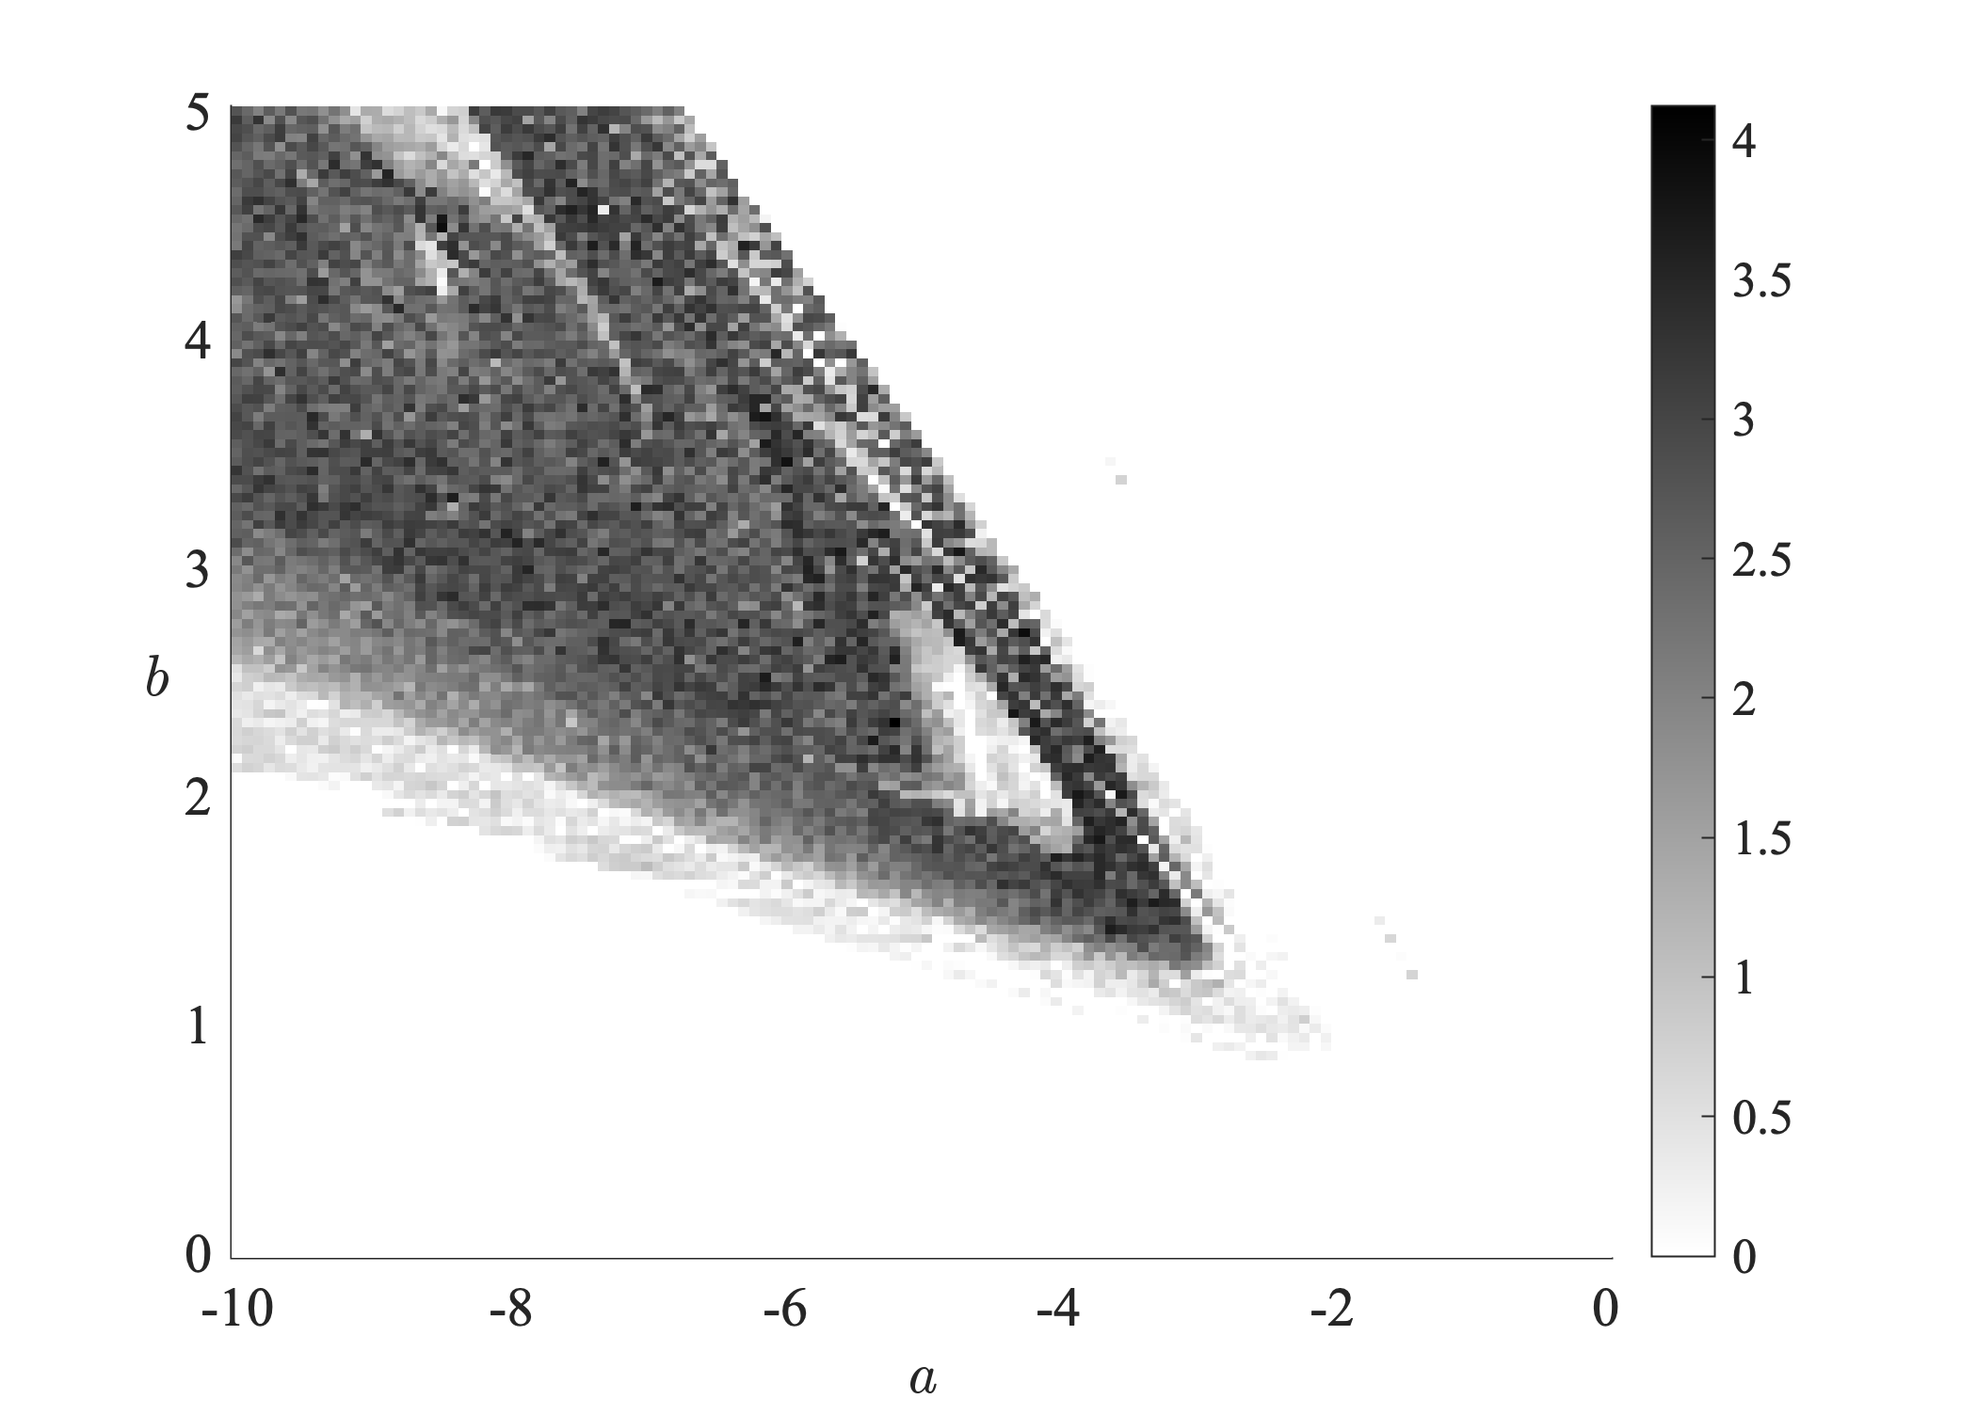
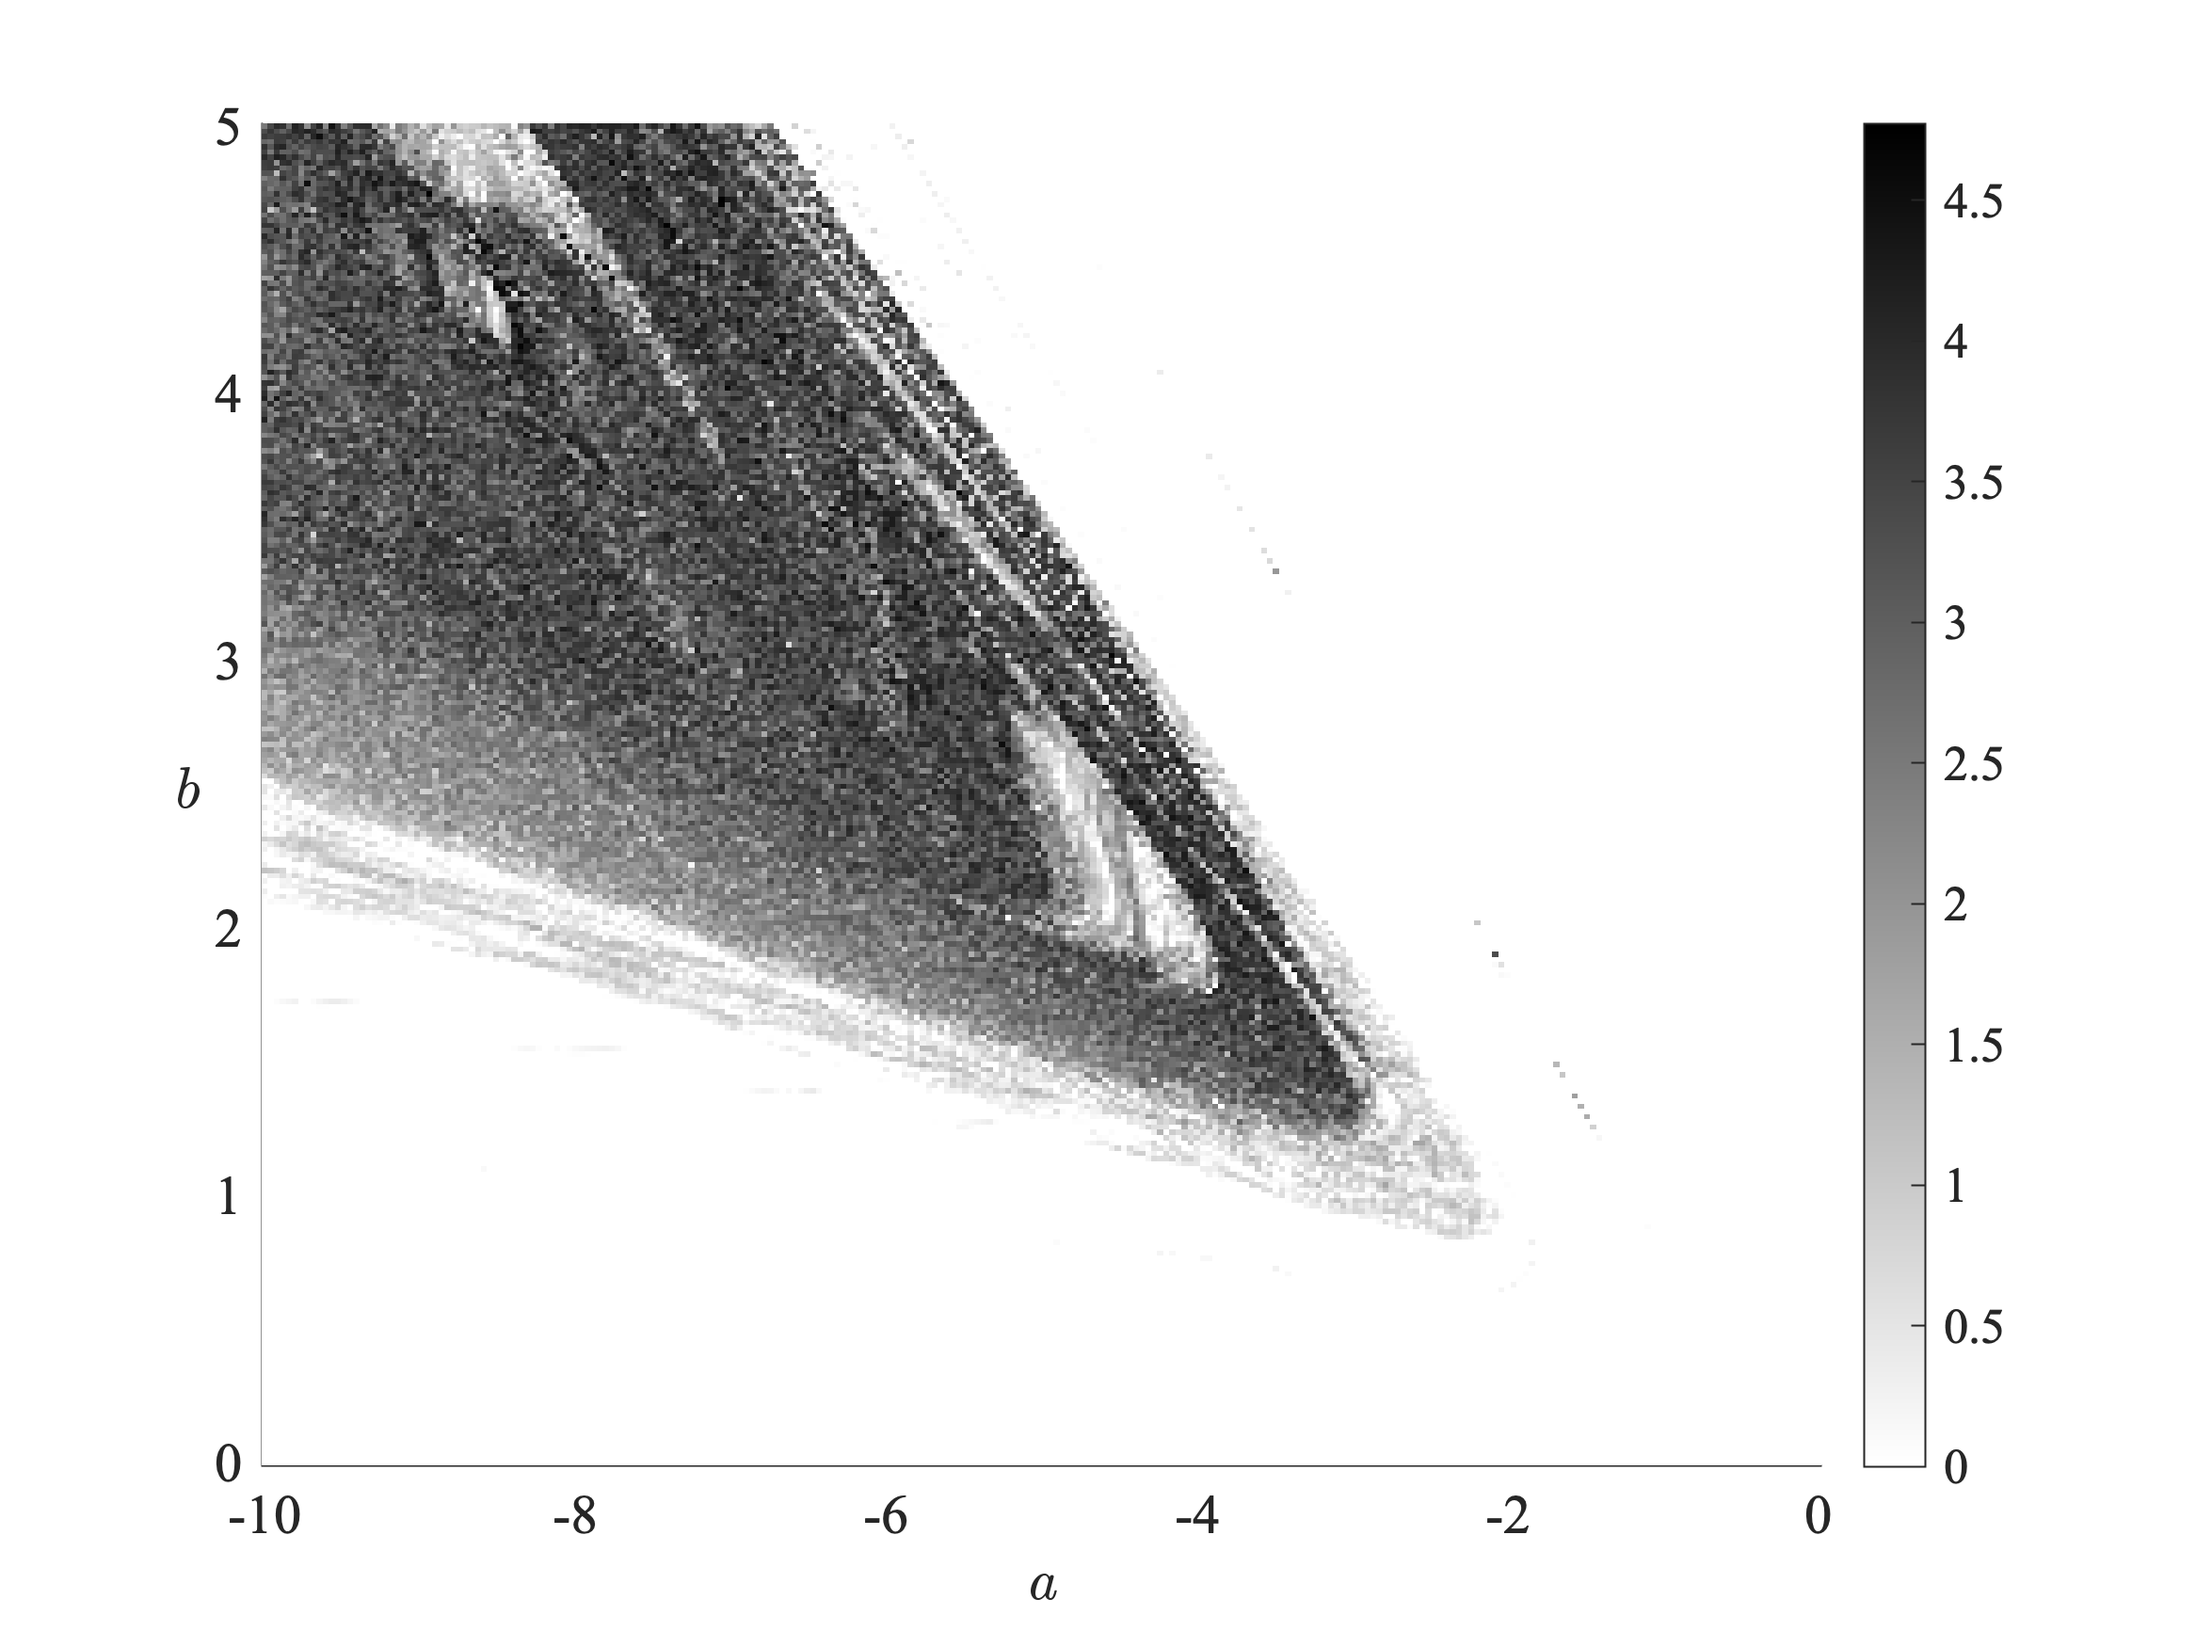
Increase LE Resolution

diff --git a/Code/delay_wilson_cowan.m b/Code/delay_wilson_cowan.m
@@ -341,10 +341,10 @@ fprintf('Maximal Lyapunov Exponent: %.4f\n', lambda_max)
 %% Calculate Maximum Lyapunov Exponents over parameter space
 % Define Lyaounov exponent calculation parameterssprintf("$\\mathit{u} \\; \\text{(a = %d)}$", a), 'Interpreter', 'latex'
 ptbn = 0.001; % distance to perturb points along main trajectory
-int = 15; % interval to simulate perturbations for
+int = 5; % interval to simulate perturbations for
 
 % Define grid over a, b parameter space
-res = 256; % specify resolution of grid
+res = 512; % specify resolution of grid
 p.arange = linspace(-10, 0, res);
 p.brange = linspace(0, 5, res);
 [p.a_grid, p.b_grid] = meshgrid(p.arange, p.brange);
@@ -398,6 +398,9 @@ yticklabels({'0', '1', '2', '3', '4', '5'});
 
 % Save figure
 print(gcf, '../Figures/Figure_8.png', '-dpng', '-r300');
+
+% Save LE table
+save('lambda_max','lambda_max')
 
 %% --------------------------------------------------------------------- %%
 % ------------------------------- f(x,p) -------------------------------- %
